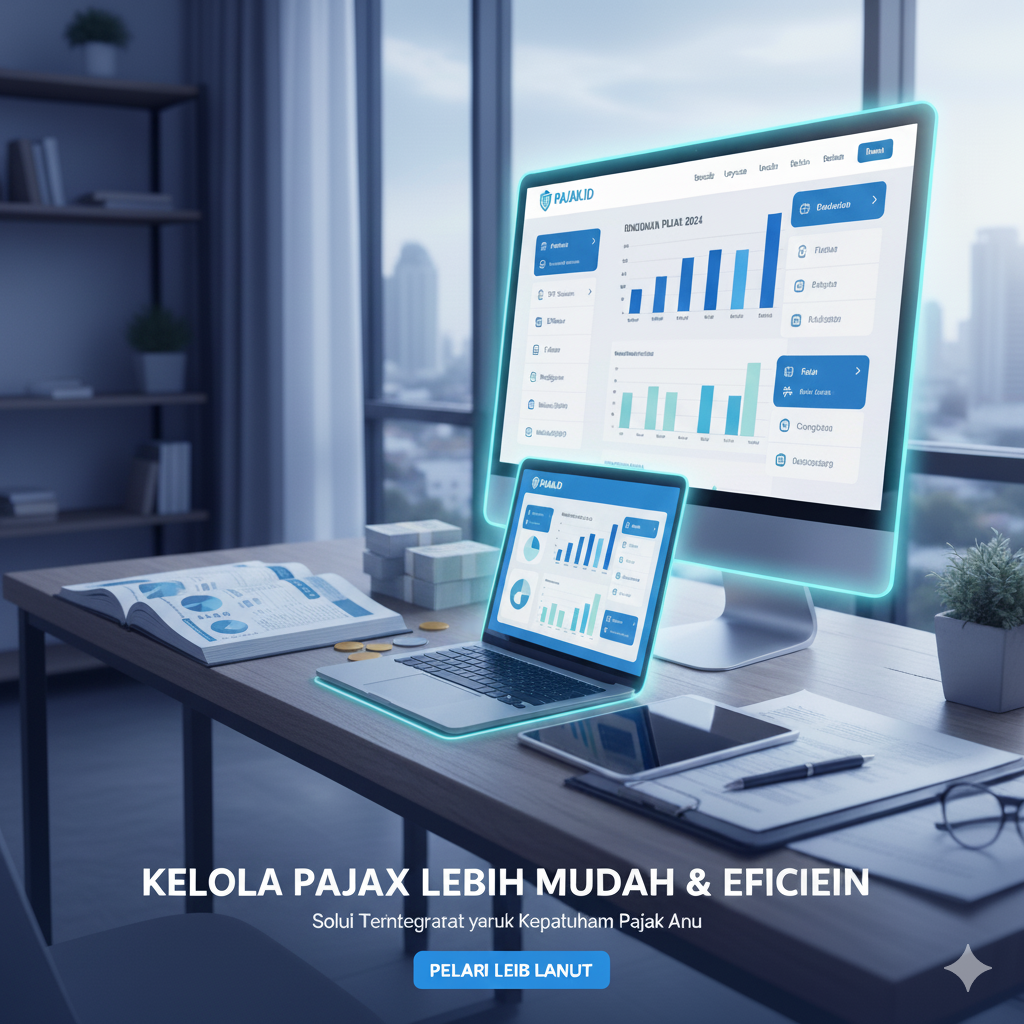
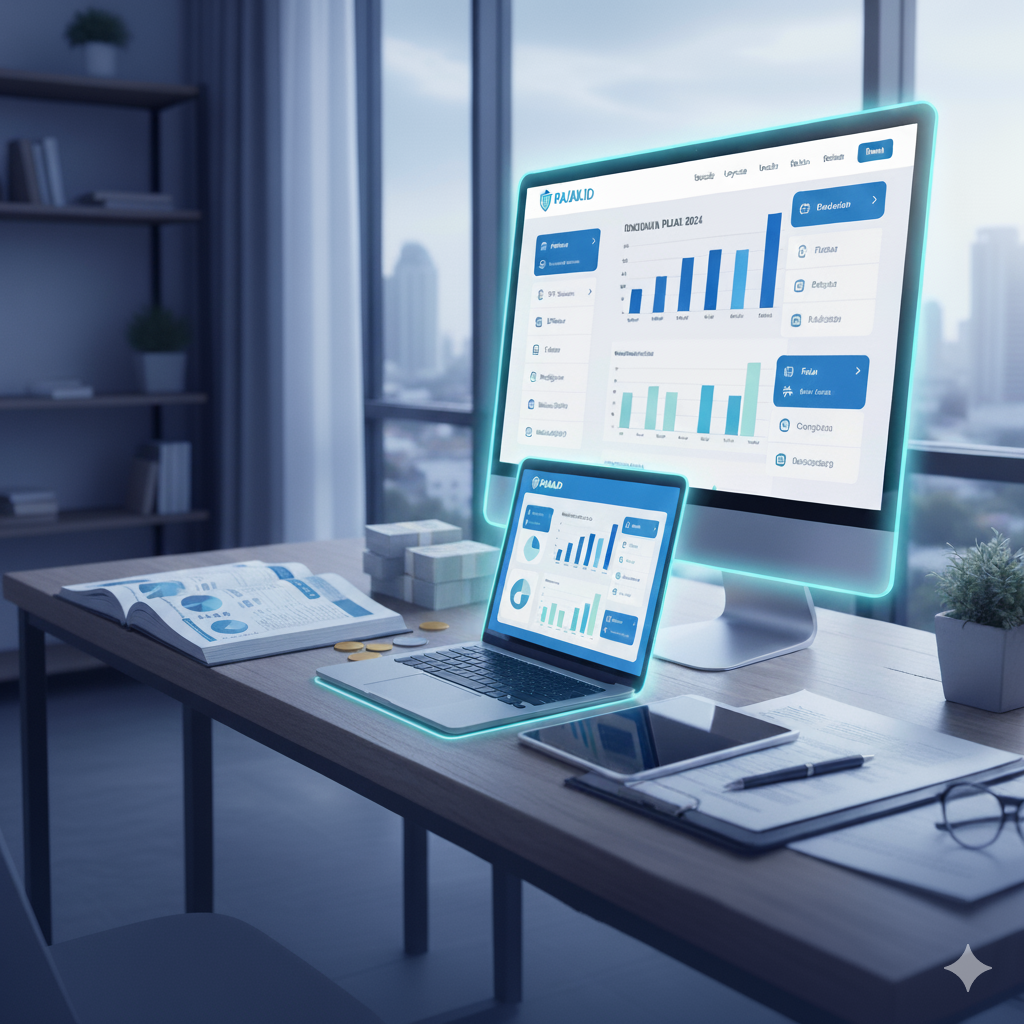
add: fixing

Changed region(s): [[0.125, 0.8438, 0.875, 0.9688]]

diff --git a/src/components/home/NavbarHome.jsx b/src/components/home/NavbarHome.jsx
@@ -12,17 +12,7 @@ const NavbarHome = () => {
     <nav className="fixed top-0 left-0 right-0 bg-primary-dark text-white px-4 md:px-6 py-4 z-50 shadow-lg">
       <div className="max-w-7xl mx-auto flex items-center justify-between">
         {/* Logo */}
-        <div className="flex items-center space-x-2">
-          <div className="flex space-x-1">
-            <div className="w-1 h-6 md:h-8 bg-blue-400 rounded"></div>
-            <div className="w-1 h-6 md:h-8 bg-blue-500 rounded"></div>
-            <div className="w-1 h-6 md:h-8 bg-blue-300 rounded"></div>
-          </div>
-          <div>
-            <h1 className="text-xl md:text-2xl font-bold">midtrans</h1>
-            <p className="text-[10px] md:text-xs text-gray-300">bagian dari <span className="font-semibold">gojek financial</span></p>
-          </div>
-        </div>
+        <img src="/images/1.png" width={120} alt="Pajax Logo" />
 
         {/* Mobile Menu Button */}
         <button 

diff --git a/src/components/home/FooterSection.jsx b/src/components/home/FooterSection.jsx
@@ -1,12 +1,9 @@
 
 const FooterSection = () => {
   const socialLinks = [
-    { name: "YouTube", url: "#", icon: "youtube" },
-    { name: "Instagram", url: "#", icon: "instagram" },
-    { name: "TikTok", url: "#", icon: "tiktok" },
-    { name: "Twitter/X", url: "#", icon: "twitter" },
-    { name: "WhatsApp Channel", url: "#", icon: "whatsapp" },
-    { name: "Telegram Group", url: "#", icon: "telegram" }
+    { name: "YouTube", url: "https://www.youtube.com/@pajaxid", icon: "youtube" },
+    { name: "Instagram", url: "https://www.instagram.com/pajax.id/", icon: "instagram" },
+    { name: "WhatsApp Channel", url: "https://whatsapp.com/channel/0029VbBLv2I4o7qIaQtvjH02", icon: "whatsapp" },
   ];
 
   return (

diff --git a/src/components/home/FaqSection.jsx b/src/components/home/FaqSection.jsx
@@ -143,9 +143,9 @@ const FaqSection = () => {
                 <p className="text-secondary text-sm mb-4">
                   Masih ada pertanyaan lain?
                 </p>
-                <button className="bg-primary hover:bg-primary-dark text-white px-6 py-3 rounded-full font-medium transition-colors">
+                <a href="/https://www.instagram.com/pajax.id/" className="bg-primary hover:bg-primary-dark text-white px-6 py-3 rounded-full font-medium transition-colors">
                   Hubungi Kami
-                </button>
+                </a>
               </div>
             </div>
           </div>

diff --git a/src/pages/admin/management-user/AdminNewsPage.jsx b/src/pages/admin/management-user/AdminNewsPage.jsx
@@ -385,8 +385,9 @@ const ManagementUserAdminNews = () => {
                     className="w-full px-4 py-3 border-2 border-gray-300 rounded-lg focus:border-primary focus:outline-none"
                     required
                   >
-                    <option value="editor-journalist">Editor Jurnalis</option>
+                    <option value="editor-journalist">Editor Berita</option>
                     <option value="editor-opinion">Editor Opini</option>
+                    <option value="journalist">Jurnalis</option>
                   </select>
                 </div>
 

diff --git a/src/components/home/SectionComponent.jsx b/src/components/home/SectionComponent.jsx
@@ -41,9 +41,7 @@ Jelajahi dunia perpajakan dengan lebih percaya diri melalui wawasan ahli dan pan
               </div>
 
               <div className="absolute top-1/2 -right-12 w-15 h-15 opacity-70">
-                <svg viewBox="0 0 100 100" className="w-full h-full text-green-400">
-                  <circle cx="50" cy="50" r="45" fill="currentColor" />
-                </svg>
+
               </div>
             </div>
           </div>

diff --git a/src/pages/authentication/RegistrationPage.jsx b/src/pages/authentication/RegistrationPage.jsx
@@ -53,12 +53,7 @@ const RegistrationPage = () => {
         
         // Auto redirect after successful registration
         setTimeout(() => {
-          const user = authService.getCurrentUser();
-          if (user?.role === 'admin') {
-            navigate('/admin/dashboard');
-          } else {
-            navigate('/');
-          }
+         navigate('/login');
         }, 2000);
       }
     } catch (err) {

diff --git a/index.html b/index.html
@@ -2,9 +2,9 @@
 <html lang="en">
   <head>
     <meta charset="UTF-8" />
-    <link rel="icon" type="image/svg+xml" href="/vite.svg" />
+    <link rel="icon" type="image/svg+xml" href="/images/4.png" />
     <meta name="viewport" content="width=device-width, initial-scale=1.0" />
-    <title>front-end</title>
+    <title>Pajax</title>
   </head>
   <body>
     <div id="root"></div>
